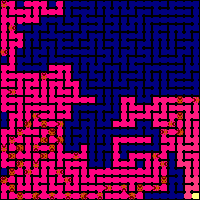
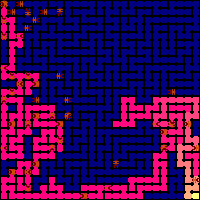
parallelisation fourmis

diff --git a/projet/Fourmi2024/grid.py b/projet/Fourmi2024/grid.py
@@ -3,11 +3,13 @@ import myPheromone
 import myAnts
 from mpi4py import MPI
 
-comm = MPI.COMM_WORLD.Dup()
+comm = MPI.COMM_WORLD
 rank = comm.Get_rank()
-size = comm.Get_size() -1
+size = comm.Get_size()
 
-
+workers = comm.Split(1)
+wRank = workers.Get_rank()
+wSize = workers.Get_size()
 
 
 if __name__ == "__main__":
@@ -15,22 +17,28 @@ if __name__ == "__main__":
     import time
     
     #receive parameters
-    size_laby, max_life, alpha, beta = comm.recv(source = 0)
-    
-    
+    # size_laby, max_life, alpha, beta = comm.recv(source = 0)
+    # size_laby, max_life, alpha, beta  = None, None, None, None
+    # data = None
+    size_laby, max_life, alpha, beta =comm.bcast(None, root=0)
+    # size_laby, max_life, alpha, beta = data
+    # print(size_laby)
     
     nb_ants = size_laby[0]*size_laby[1]//4
+    nb_ants //= wSize
+    # print(nb_ants)
     pos_food = size_laby[0]-1, size_laby[1]-1
     pos_nest = 0, 0
 
-    maze = comm.recv(source = 0)
+    maze = comm.bcast(None, root = 0)
     ants = myAnts.Colony(nb_ants, pos_nest, max_life)
-    unloaded_ants = np.array(range(nb_ants))
-    pherom = myPheromone.Pheromon(size_laby, pos_food, alpha, beta)
+    # unloaded_ants = np.array(range(nb_ants))
+    pheromones = myPheromone.Pheromon(size_laby, pos_food, alpha, beta)
     
     food_counter = 0
     playing = True
     
+    print(wRank)
 
 
     
@@ -42,13 +50,16 @@ if __name__ == "__main__":
             
         #compute
         deb = time.time()
-        food_counter = ants.advance(maze, pos_food, pos_nest, pherom, food_counter)
-        pherom.do_evaporation(pos_food)
+        food_counter = ants.advance(maze, pos_food, pos_nest, pheromones, food_counter)
+        pheromones.do_evaporation(pos_food)
         end = time.time()
 
         #communication
-        comm.send((pherom.pheromon, ants, food_counter), dest = 0)
-        playing = comm.recv(source = 0)
+        comm.gather((ants, food_counter), root = 0)
+        comm.reduce(pheromones.pheromon, op = MPI.SUM, root = 0)
+        # comm.Reduce([pherom,MPI.DOUBLE], [pherom,MPI.DOUBLE], MPI.SUM, root = 0)
+        # comm.send((pherom.pheromon, ants, food_counter), dest = 0)
+        playing = comm.bcast(None, root = 0)
 
 
         

diff --git a/projet/Fourmi2024/gui.py b/projet/Fourmi2024/gui.py
@@ -9,10 +9,11 @@ from mpi4py import MPI
 # os.environ["OMP_NUM_THREADS"] = "1"
 # os.environ["MKL_NUM_THREADS"] = "1"
 
-comm = MPI.COMM_WORLD.Dup()
+comm = MPI.COMM_WORLD
 rank = comm.Get_rank()
 size = comm.Get_size()
 
+workers = comm.Split(0)
 
 def loadAssets():
     #  Load patterns for maze display :
@@ -84,9 +85,8 @@ if __name__ == "__main__":
         beta = float(sys.argv[5])
 
     #send parameters
-    for k in range(1, size) :
-        comm.send((size_laby, max_life, alpha, beta), dest = k)
-    
+    comm.bcast((size_laby, max_life, alpha, beta), root=0)
+
     # screen init
     resolution = size_laby[1]*8, size_laby[0]*8
     screen = pg.display.set_mode(resolution)
@@ -95,14 +95,15 @@ if __name__ == "__main__":
     loadAssets()
 
     # maze init
-    a_maze = myMaze.Maze(size_laby, 12345)  
-    comm.send(a_maze.maze, dest = 1)
+    a_maze = myMaze.Maze(size_laby, 12345)
+    comm.bcast(a_maze.maze, root = 0)
     mazeImg = displayMaze(a_maze.maze)# Le labyrinthe ne change pas
 
 
     playing = True
     snapshop_taken = False
-           
+    ants = [0]*(size-1)
+    zeros = np.zeros((size_laby[0]+2, size_laby[1]+2),  dtype=np.double)
 
     
     while playing:
@@ -113,13 +114,18 @@ if __name__ == "__main__":
                 playing = False
                 
         #communication
-        pherom, ants, food_counter = comm.recv(source = 1)
-        comm.send(playing, dest = 1)
+        # pherom, ants, food_counter = comm.recv(source = 1)
+        ants = comm.gather(None, root = 0)
+        food_counter = sum([ants[k][1] for k in range(1,size)])
+        pherom = comm.reduce(zeros, op = MPI.SUM, root = 0)
+        # comm.Reduce([pherom,MPI.DOUBLE], [pherom,MPI.DOUBLE], MPI.SUM, root = 0)
+        comm.bcast(playing, root = 0)
 
         #display
         displayPheromon(pherom,screen)
         screen.blit(mazeImg, (0, 0))
-        displayAnts(ants, screen)
+        for k in range(1,size):
+            displayAnts(ants[k][0], screen)
         pg.display.update()
         # pg.time.wait(200)
 

diff --git a/projet/Fourmi2024/test/test2.py b/projet/Fourmi2024/test/test2.py
@@ -1,0 +1,26 @@
+from mpi4py import MPI
+import tkinter as tk
+
+def main():
+    comm = MPI.COMM_WORLD
+    rank = comm.Get_rank()
+    
+    if rank == 0:
+        # Code for GUI setup
+        root = tk.Tk()
+        # GUI setup code here
+        data_to_broadcast = "Hello from Rank 0"
+    else:
+        data_to_broadcast = None
+
+    # Broadcast data from rank 0 to all other ranks
+    data_to_broadcast = comm.bcast(data_to_broadcast, root=0)
+    
+    # if rank != 0:
+    #     print(f"Rank {rank} received: {data_to_broadcast}")
+
+    if rank == 0:
+        root.mainloop()
+
+if __name__ == "__main__":
+    main()

diff --git a/projet/Fourmi2024/myMaze.py b/projet/Fourmi2024/myMaze.py
@@ -3,7 +3,7 @@ Creates a two-dimensional maze where each cell in the maze is defined by the sum
 (North = 1, East = 2, South = 4, West = 8), with each cell corresponding to a value stored in a two-dimensional array.
 """
 import numpy as np
-import pygame as pg
+
 
 NORTH = 1
 EAST  = 2
@@ -63,6 +63,7 @@ class Maze:
 
 
 if __name__  == "__main__":
+    import pygame as pg
     import time
     dimensions = (50, 80)
     pg.init()

diff --git a/projet/Fourmi2024/test/test1.py b/projet/Fourmi2024/test/test1.py
@@ -1,0 +1,14 @@
+from mpi4py import MPI
+
+def main():
+    comm = MPI.COMM_WORLD
+    rank = comm.Get_rank()
+    
+    # Receive broadcasted data from rank 0
+    data_to_process = comm.bcast(None, root=0)
+
+    if rank != 0:
+        print(f"Rank {rank} received: {data_to_process}")
+
+if __name__ == "__main__":
+    main()

diff --git a/projet/Fourmi2024/myPheromone.py b/projet/Fourmi2024/myPheromone.py
@@ -2,7 +2,6 @@
 """
 import numpy as np
 import direction as d
-import pygame as pg
 
 
 class Pheromon:

diff --git a/projet/Fourmi2024/README.md b/projet/Fourmi2024/README.md
@@ -29,9 +29,27 @@ mpirun -np 1 python3 gui.py : -np 1 python3 grid.py
 
 ## Analyse a priori
 
+Les fourmis semblent complètement indépendantes et ça doit être quasi embarrasingly parallelisable.
+les phéromones sont additionnées grace à mpiReduce, de même pour food_counter
+
+Les phéromones en revanche risquent de devoir être traitées par découpage de la map... bruh
+Difficile de voir comment faire car un process peut avoir des fourmis dans les 4 coins de la map qui posent des phéromones.
+C'est surement ça la partie laby à pas implémenter
+
+
+
 ## Notre configuration
 
 ![myConfig.png](img/myConfig.png "using lstopo")
+
+## Idées
+
+
+
+## Problèmes...
+
+utiliser comm.reduce ou éviter la granularité avec un unique comm.gather (entre gui/grille)
+
 
 ## trucs à repiquer
 
